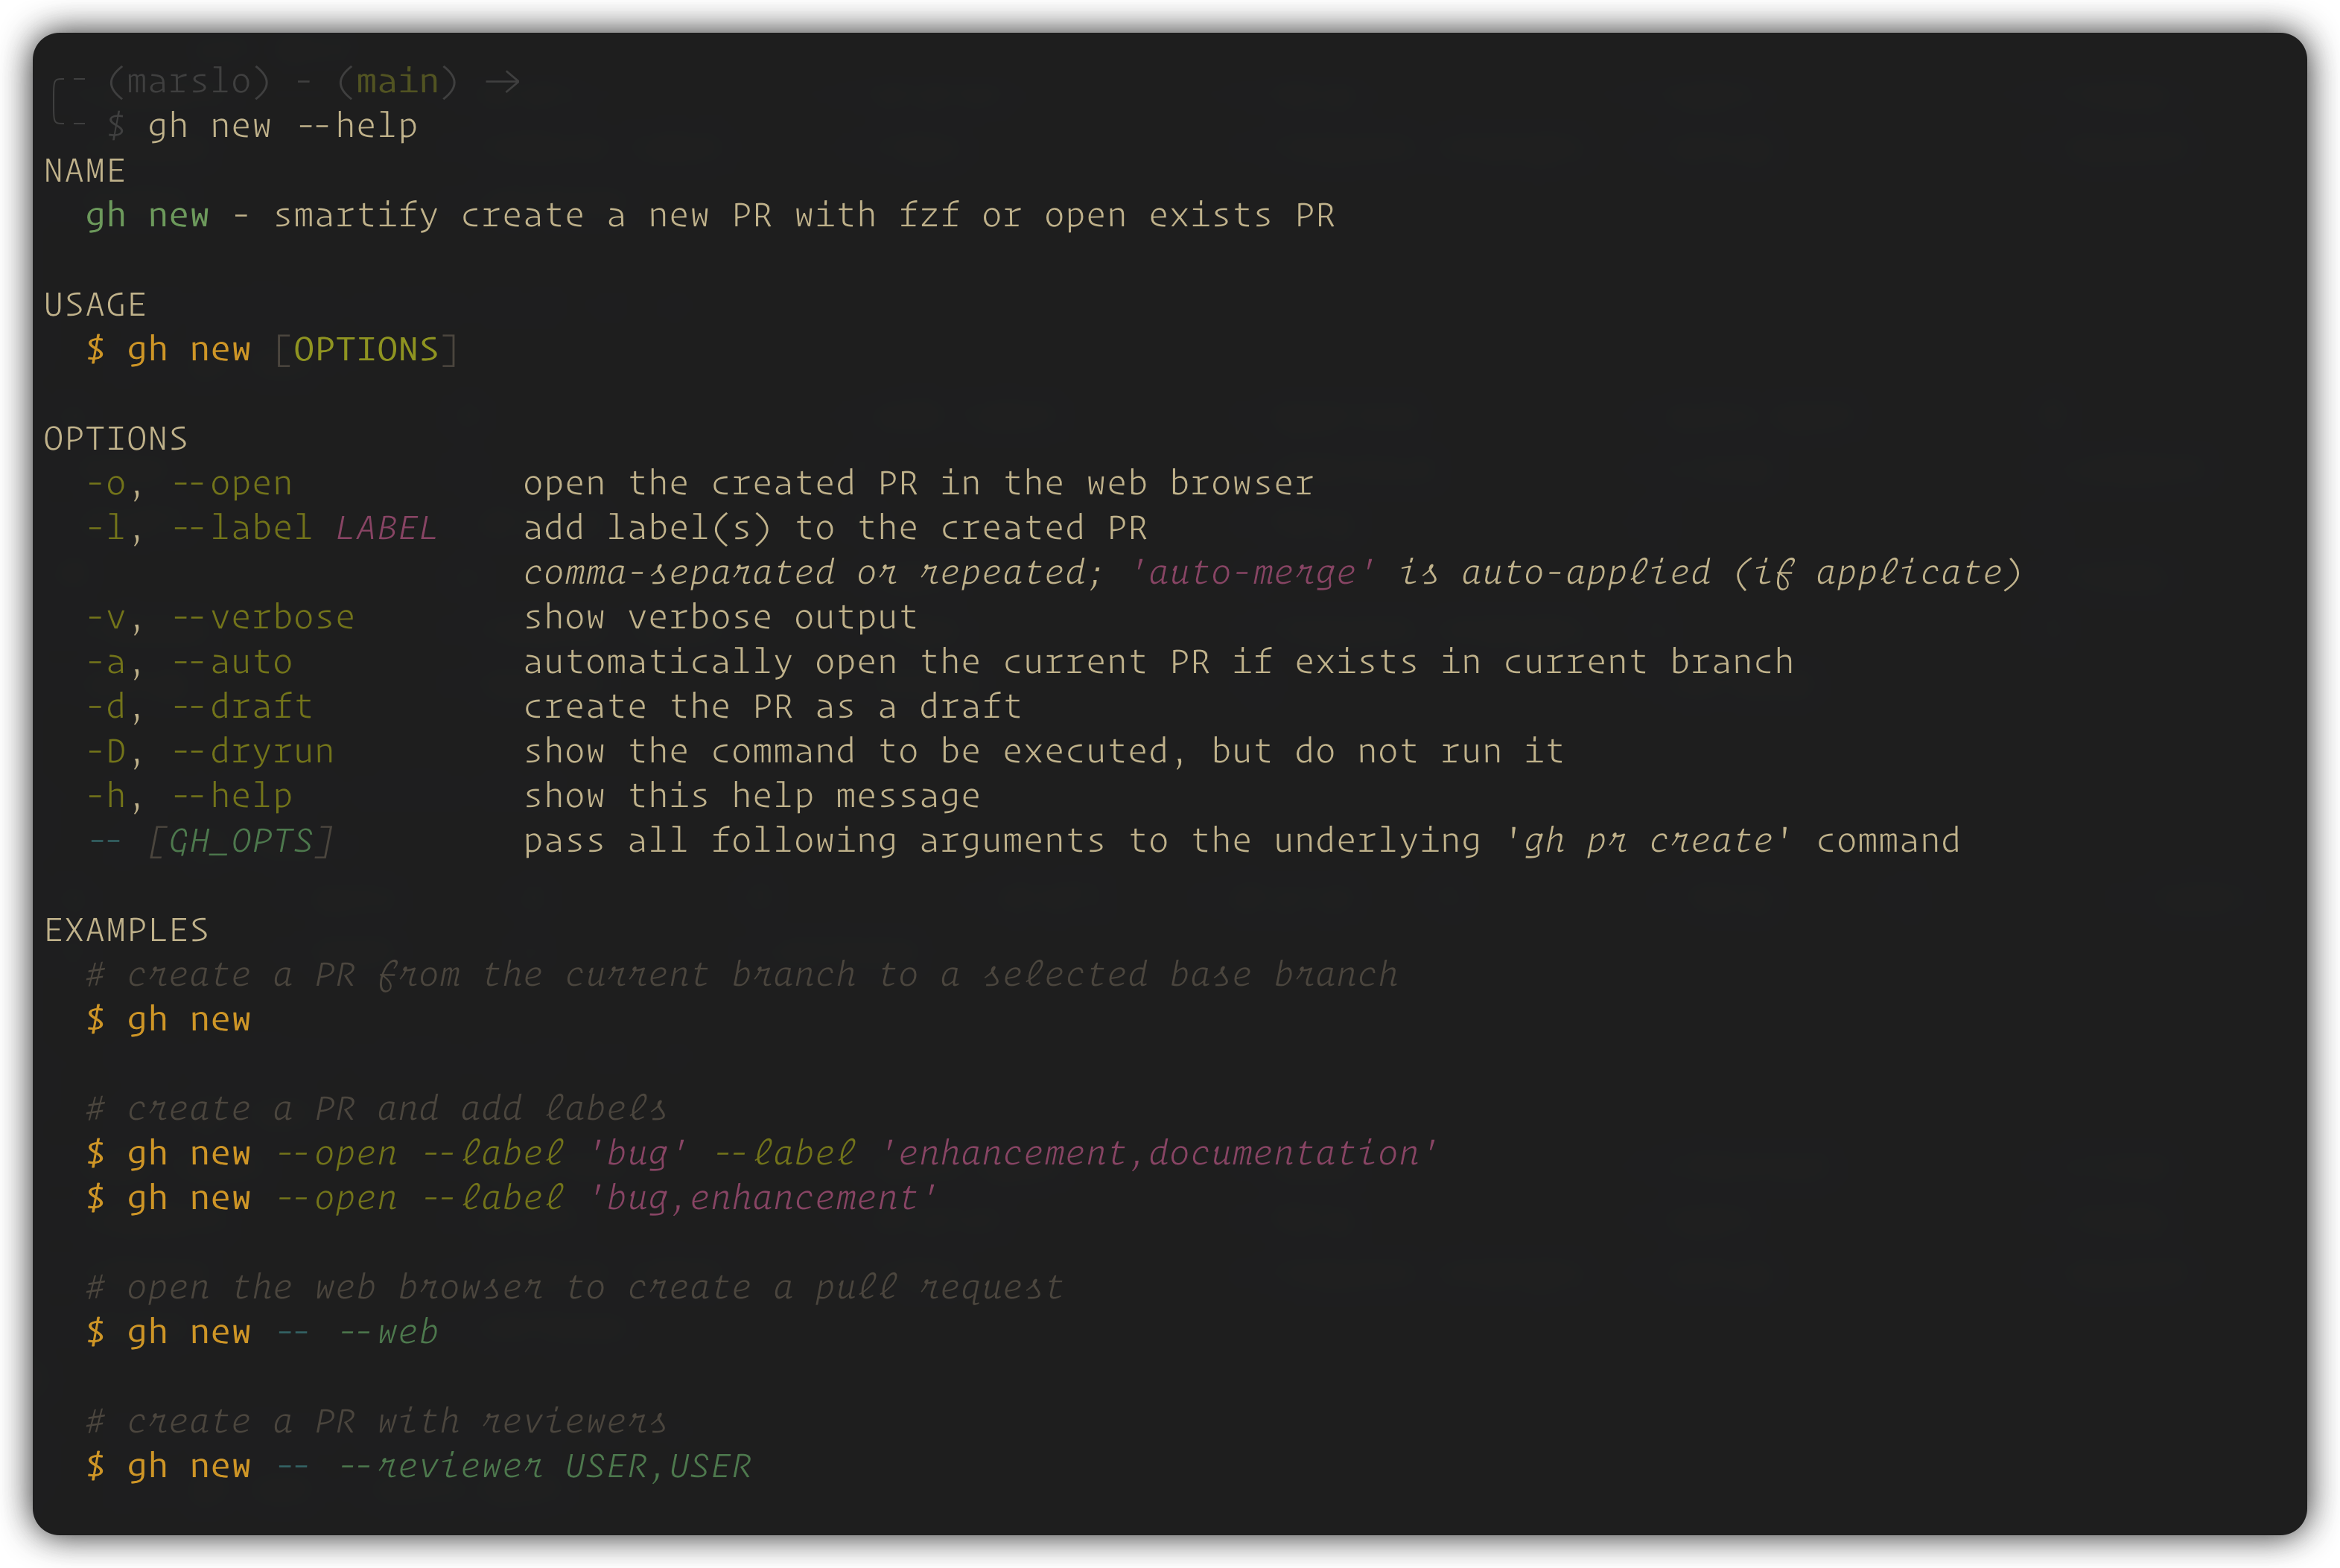
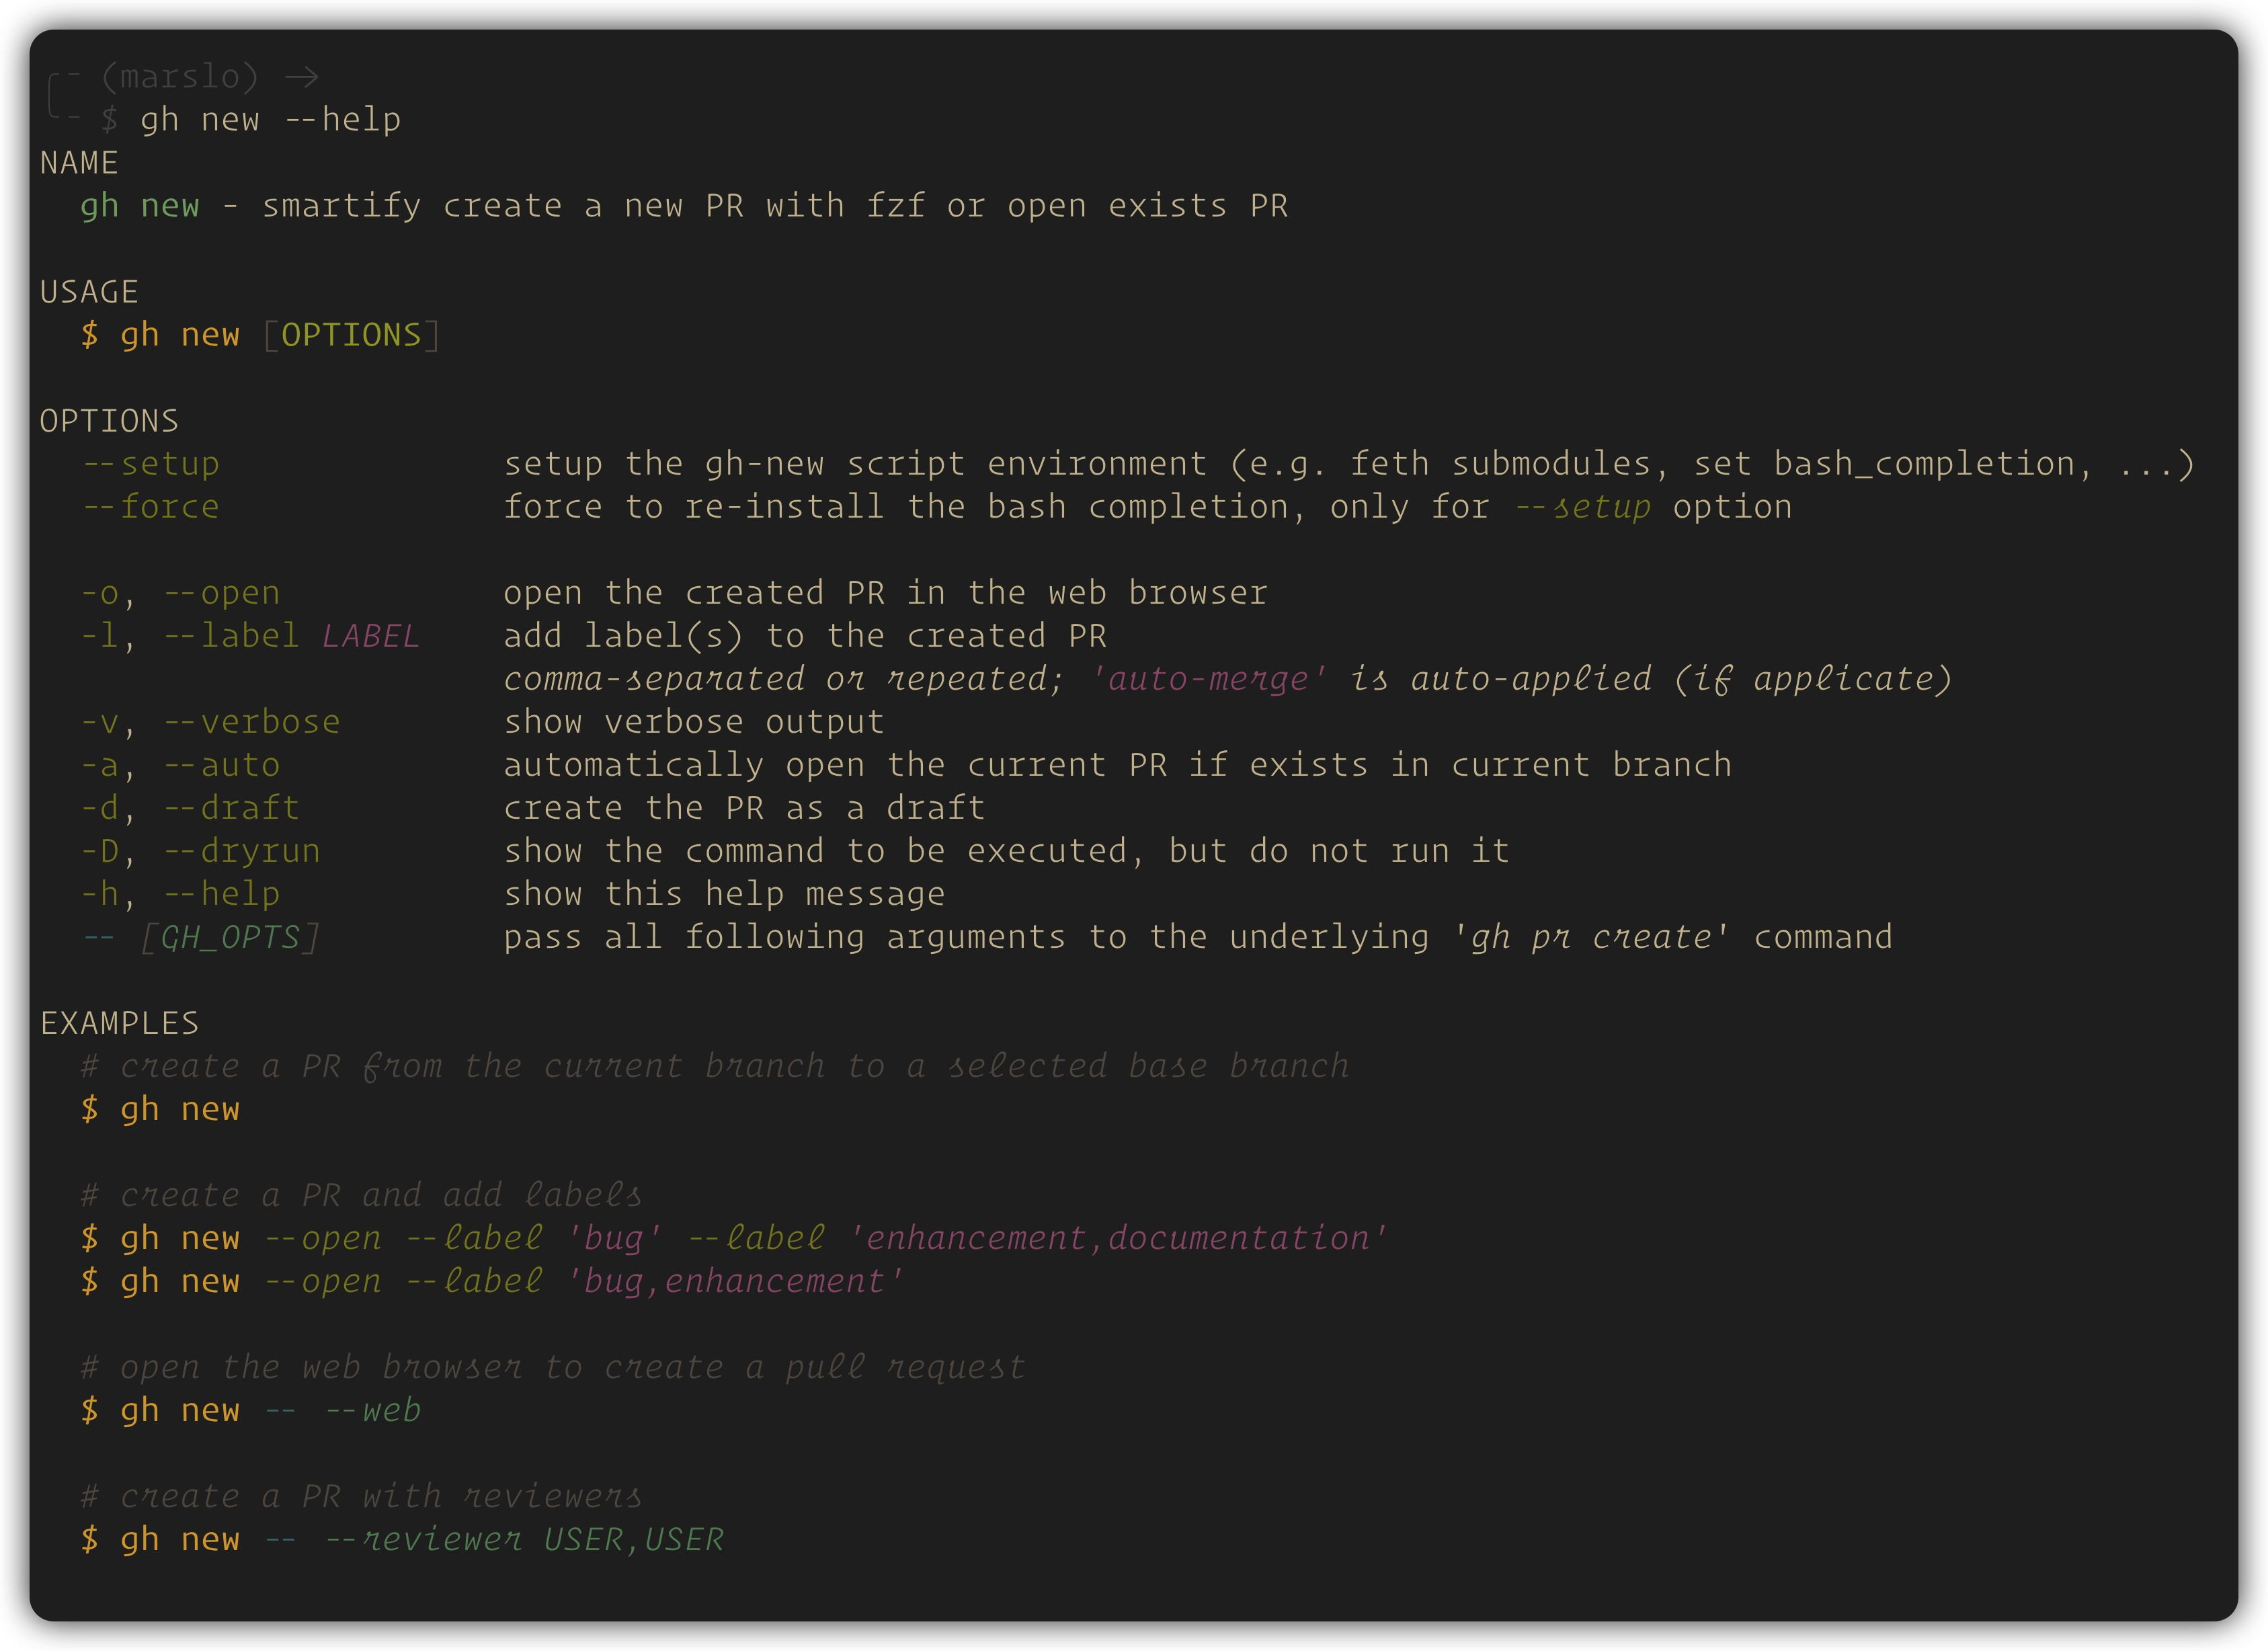
docs: update the help screenshot

diff --git a/CHANGELOG.md b/CHANGELOG.md
@@ -6,8 +6,11 @@
 
 ## [1.0.1](https://github.com/marslo/gh-new/compare/v1.0.0...v1.0.1) (2026-05-07)
 
-# 1.0.0 (2026-05-07)
+### Others
 
+* update the submodule (utils) for bash_completion enhancement ( [b99f4be](https://github.com/marslo/gh-utility/commit/b99f4be85fc6c60ff524b6c35dede3bcc8a38a44), [4052204](https://github.com/marslo/gh-new/commit/40522044685508659873cd541d1df7eb342e2a3e) )
+
+# 1.0.0 (2026-05-07)
 
 ### Features
 